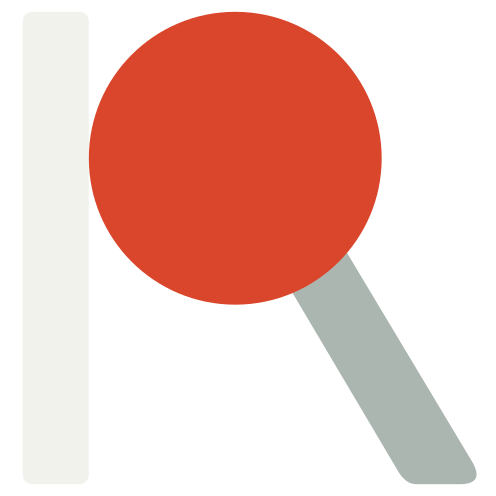
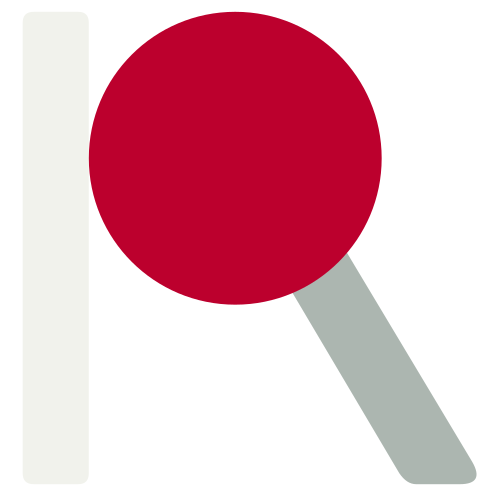
fix(brand): use Japanese flag red in Signal assets

Changed region(s): [[0.1815, 0.0, 0.7863, 0.6351]]

diff --git a/scripts/build_brand_assets.py b/scripts/build_brand_assets.py
@@ -33,10 +33,10 @@ PATHS = {
         "C17.906 48.21 31.122 61.428 47.429 61.428Z"
     ),
 }
-SIGNAL = ("#202322", "#606A65", "#DA462B")
-# Dark variant keeps the SAME red accent as light — the sun is the brand's
-# constant; only the ink/foot flip for contrast.
-SIGNAL_DARK = ("#F1F2EC", "#ACB6B0", "#DA462B")
+JAPAN_RED = "#BC002D"  # Japanese flag red; the Signal sun stays consistent in every palette.
+SIGNAL = ("#202322", "#606A65", JAPAN_RED)
+# Dark variant keeps the SAME flag red; only the ink/foot flip for contrast.
+SIGNAL_DARK = ("#F1F2EC", "#ACB6B0", JAPAN_RED)
 # Spanish edition: the sun takes the Spanish flag's gold — the flag's dominant
 # color, distinct from the Japanese red, and it reads on both light and dark.
 SPANISH = ("#202322", "#606A65", "#F1BF00")

diff --git a/assets/README.md b/assets/README.md
@@ -1,6 +1,6 @@
 # Reikun brand assets
 
-**Signal** (Penpot 11.1A) is the primary mark. **Graphite** (11.1C) is the neutral alternative. Both use the same flat-ended stem, diagonal foot, and solid disc.
+**Signal** (Penpot 11.1A) is the primary mark. Its Japanese sun uses flag red `#BC002D`; the Spanish variant uses flag gold `#F1BF00`. **Graphite** (11.1C) is the neutral alternative. All variants use the same flat-ended stem, diagonal foot, and solid disc.
 
 | Mark | On light backgrounds | On dark backgrounds |
 | --- | --- | --- |
